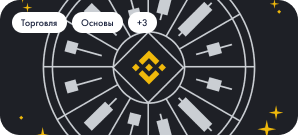
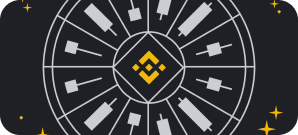
grid section top end

Changed region(s): [[0.0302, 0.0889, 0.5436, 0.2667]]

diff --git a/source/markup/education-2.html b/source/markup/education-2.html
@@ -18,7 +18,6 @@
 		</h2>
 
 		<div class="education__inner">
-
 			<div class="card education__card education-2__card div1">
 				<div class="card__content education__img education__img_inform_ape education-2__img">
 				</div>
@@ -64,44 +63,33 @@
 			</div>
 
 			<div class="card education__card education-2__card_size_big div2">
-
-				<div class="card__content education__img education__img_inform_game education-2__img_binance">
-
-				</div>
-
+				<div class="card__content education__img education__img_inform_game education-2__img_binance"></div>
 				<div class="education__wrap education-2__wrap">
-					<div class="card__top">
+					<div class="card__top education-2__column">
 						<p class="text card__text">
 							4 минуты
 						</p>
-
 						<a class="link link_level_advanced" href="">
 							Продвинутый
 						</a>
 					</div>
-
 					<h2 class="text education__title">
 						12 популярных свечных моделей и паттернов, используемых в техническом анализе
 					</h2>
-
 					<p class="text education-2__text">
 						Game Fi относится к блокчейн-играм "играй, чтобы заработать", которые предлагают игрокам экономические
 						стимулы.
 					</p>
-
 					<div class="content__button-wrap education__button-wrap education-2__button-wrap--top">
 						<a class="button content__button education__button" href="#">
 							Торговля
 						</a>
-
 						<a class="button content__button" href="#">
 							Основы
 						</a>
-
 						<a class="button content__button" href="#">
 							Технический анализ
 						</a>
-
 						<a class="button content__button" href="#">
 							Экономика
 						</a>
@@ -110,44 +98,33 @@
 			</div>
 
 			<div class="card education__card education-2__card_size_big div3">
-
-				<div class="card__content education__img education__img_inform_game education-2__img_meanbnb">
-
-				</div>
-
+				<div class="card__content education__img education__img_inform_game education-2__img_binance education-2__img_mean"></div>
 				<div class="education__wrap education-2__wrap">
-					<div class="card__top">
+					<div class="card__top education-2__column">
 						<p class="text card__text">
 							4 минуты
 						</p>
-
 						<a class="link link_level_advanced" href="">
 							Продвинутый
 						</a>
 					</div>
-
 					<h2 class="text education__title">
 						Как начать работу с Binance Smart за 60 секунд
 					</h2>
-
 					<p class="text education-2__text">
 						Game Fi относится к блокчейн-играм "играй, чтобы заработать", которые предлагают игрокам экономические
 						стимулы.
 					</p>
-
 					<div class="content__button-wrap education__button-wrap education-2__button-wrap--top">
 						<a class="button content__button education__button" href="#">
 							Торговля
 						</a>
-
 						<a class="button content__button" href="#">
 							Основы
 						</a>
-
 						<a class="button content__button" href="#">
 							Технический анализ
 						</a>
-
 						<a class="button content__button" href="#">
 							Экономика
 						</a>
@@ -156,29 +133,24 @@
 			</div>
 
 			<div class="card education__card education-2__card div4">
-				<div class="card__content education__img education__img_inform_ape education-2__img">
-				</div>
+				<div class="card__content education__img education__img_inform_ape education-2__img"></div>
 				<div class="education__wrap education-2__wrap">
 					<div class="card__top education-2__top">
 						<p class="text card__text">
 							6 минут
 						</p>
-
 						<a class="link link_level_pro" href="#">
 							Профессионал
 						</a>
 					</div>
-
 					<h2 class="text education__title">
 						Что такое усреднение долларовой стоимости (DCA)?
 					</h2>
-
 					<p class="text education-2__text">
 						ApeCoin (APE) - это токен утилиты и управления ERC-20, который расширяет возможности экосистемы APE. Он
 						управляется
 						ApeCo в DAO и поддерживается...
 					</p>
-
 					<div class="content__button-wrap education__button-wrap education-2__button-wrap">
 						<a class="button content__button education__button education-2__button" href="#">
 							Binance
@@ -187,58 +159,47 @@
 				</div>
 			</div>
 
-	<div class="card education__card education-2__card_size_big div5">
-
-		<div class="card__content education__img education__img_inform_game education-2__img_bitok">
-
-		</div>
-
-		<div class="education__wrap education-2__wrap">
-			<div class="card__top">
-				<p class="text card__text">
-					4 минуты
-				</p>
-
-				<a class="link link_level_advanced" href="">
-					Продвинутый
-				</a>
+			<div class="card education__card education-2__card_size_big div5">
+				<div class="card__content education__img education__img_inform_game education-2__img_bitok"></div>
+				<div class="education__wrap education-2__wrap">
+					<div class="card__top ">
+						<p class="text card__text">
+							4 минуты
+						</p>
+						<a class="link link_level_advanced" href="">
+							Продвинутый
+						</a>
+					</div>
+					<h2 class="text education__title">
+						История цен биткоина
+					</h2>
+					<p class="text education-2__text">
+						Game Fi относится к блокчейн-играм "играй, чтобы заработать", которые предлагают игрокам экономические
+						стимулы.
+					</p>
+					<div
+						class="content__button-wrap education__button-wrap education-2__button-wrap--top education-2__button-wrap--bottom">
+						<a class="button content__button education__button" href="#">
+							Торговля
+						</a>
+						<a class="button content__button" href="#">
+							Основы
+						</a>
+						<a class="button content__button" href="#">
+							Технический анализ
+						</a>
+						<a class="button content__button" href="#">
+							Экономика
+						</a>
+					</div>
+				</div>
 			</div>
-
-			<h2 class="text education__title">
-				История цен биткоина
-			</h2>
-
-			<p class="text education-2__text">
-				Game Fi относится к блокчейн-играм "играй, чтобы заработать", которые предлагают игрокам экономические
-				стимулы.
-			</p>
-
-			<div class="content__button-wrap education__button-wrap education-2__button-wrap--top">
-				<a class="button content__button education__button" href="#">
-					Торговля
-				</a>
-
-				<a class="button content__button" href="#">
-					Основы
-				</a>
-
-				<a class="button content__button" href="#">
-					Технический анализ
-				</a>
-
-				<a class="button content__button" href="#">
-					Экономика
-				</a>
-			</div>
-		</div>
-	</div>
 		</div>
 
 		<div class="education-2__nav">
 			<a class="button button_form_none education__link" href="#">
 				Показать еще
 			</a>
-
 			<nav class="education__nav">
 				<button class="button button_form_none">
 					<svg width="6" height="9" viewBox="0 0 6 9" fill="none" xmlns="http://www.w3.org/2000/svg">
@@ -246,7 +207,6 @@
 							d="M2.18154 4.5L5.40726 7.45683C5.72595 7.74895 5.72595 8.25136 5.40726 8.54348C5.12548 8.80178 4.69298 8.80178 4.4112 8.54348L0.804202 5.23716C0.37182 4.84083 0.37182 4.15917 0.804202 3.76284L4.4112 0.456518C4.69298 0.198221 5.12548 0.198221 5.40727 0.456518C5.72595 0.748638 5.72595 1.25105 5.40726 1.54317L2.18154 4.5Z"
 							fill="#A6A7B0" />
 					</svg>
-
 				</button>
 				<ul class="menu education__menu">
 					<li class="education__item">
@@ -272,7 +232,6 @@
 							fill="#A6A7B0" />
 					</svg>
 				</button>
-
 			</nav>
 		</div>
 	</section>

diff --git a/source/styles/components/education-2/education-2.css b/source/styles/components/education-2/education-2.css
@@ -28,8 +28,8 @@
 	background-image: url('../images/education-2/bnb-mob.png');
 }
 
-.education-2__img_meanbnb {
-	background-image: url('../images/education-2/bnbmean.png');
+.education-2__img_mean {
+	background-image: url('../images/education-2/mean-mob.png');
 }
 
 .education-2__img_bitok {
@@ -50,6 +50,10 @@
 	text-align: center;
 }
 
+.education-2__column {
+	margin-bottom: 30px;
+}
+
 .education-2__button-wrap--top {
 	bottom: 41%;
 	left: 7%;
@@ -58,7 +62,7 @@
 
 @media (min-width: 1220px) {
 	.education-2__card {
-		padding: 51px 30px;
+		padding: 105px 30px 70px;
 		min-height: 320px;
 	}
 
@@ -70,15 +74,45 @@
 	}
 
 	.education-2__top {
-		bottom: 70%;
+		bottom: 71%;
 		left: 3%;
+	}
+
+	.education-2__img_binance {
+		position: absolute;
+		background-image: url('../images/education-2/binance.png');
+		max-width: 350px;
+		bottom: 15%;
+		left: 50%;
+		transform: translateX(-50%);
+	}
+
+	.education-2__img_mean {
+		background-image: url('../images/education-2/mean-binance.png');
+	}
+
+	.education-2__img_bitok {
+		height: inherit;
+	}
+
+	.education-2__button-wrap--top {
+		position: absolute;
+		bottom: 5%;
+		left: 3%;
+		font-size: 14px;
+	}
+
+	.education-2__button-wrap--bottom {
+		position: absolute;
+		left: 50%;
+		bottom: 10%;
 	}
 
 	.education__inner {
 		display: grid;
-		grid-template-columns: repeat(3, 1fr);
-		grid-template-rows: repeat(3, 1fr);
+	
 		gap: 35px;
+
 	}
 
 	.div1 {
@@ -89,12 +123,13 @@
 	.div2 {
 		grid-area: 1 / 3 / 3 / 4;
 		height: 670px;
-
+		padding-top: 40px;
 	}
 
 	.div3 {
 		grid-area: 2 / 1 / 4 / 2;
-		height: 670px;
+		height: 568px;
+		padding-top: 40px;
 	}
 
 	.div4 {
@@ -103,6 +138,7 @@
 
 	.div5 {
 		grid-area: 3 / 2 / 4 / 4;
+		min-height: 218px;
 	}
 
 
